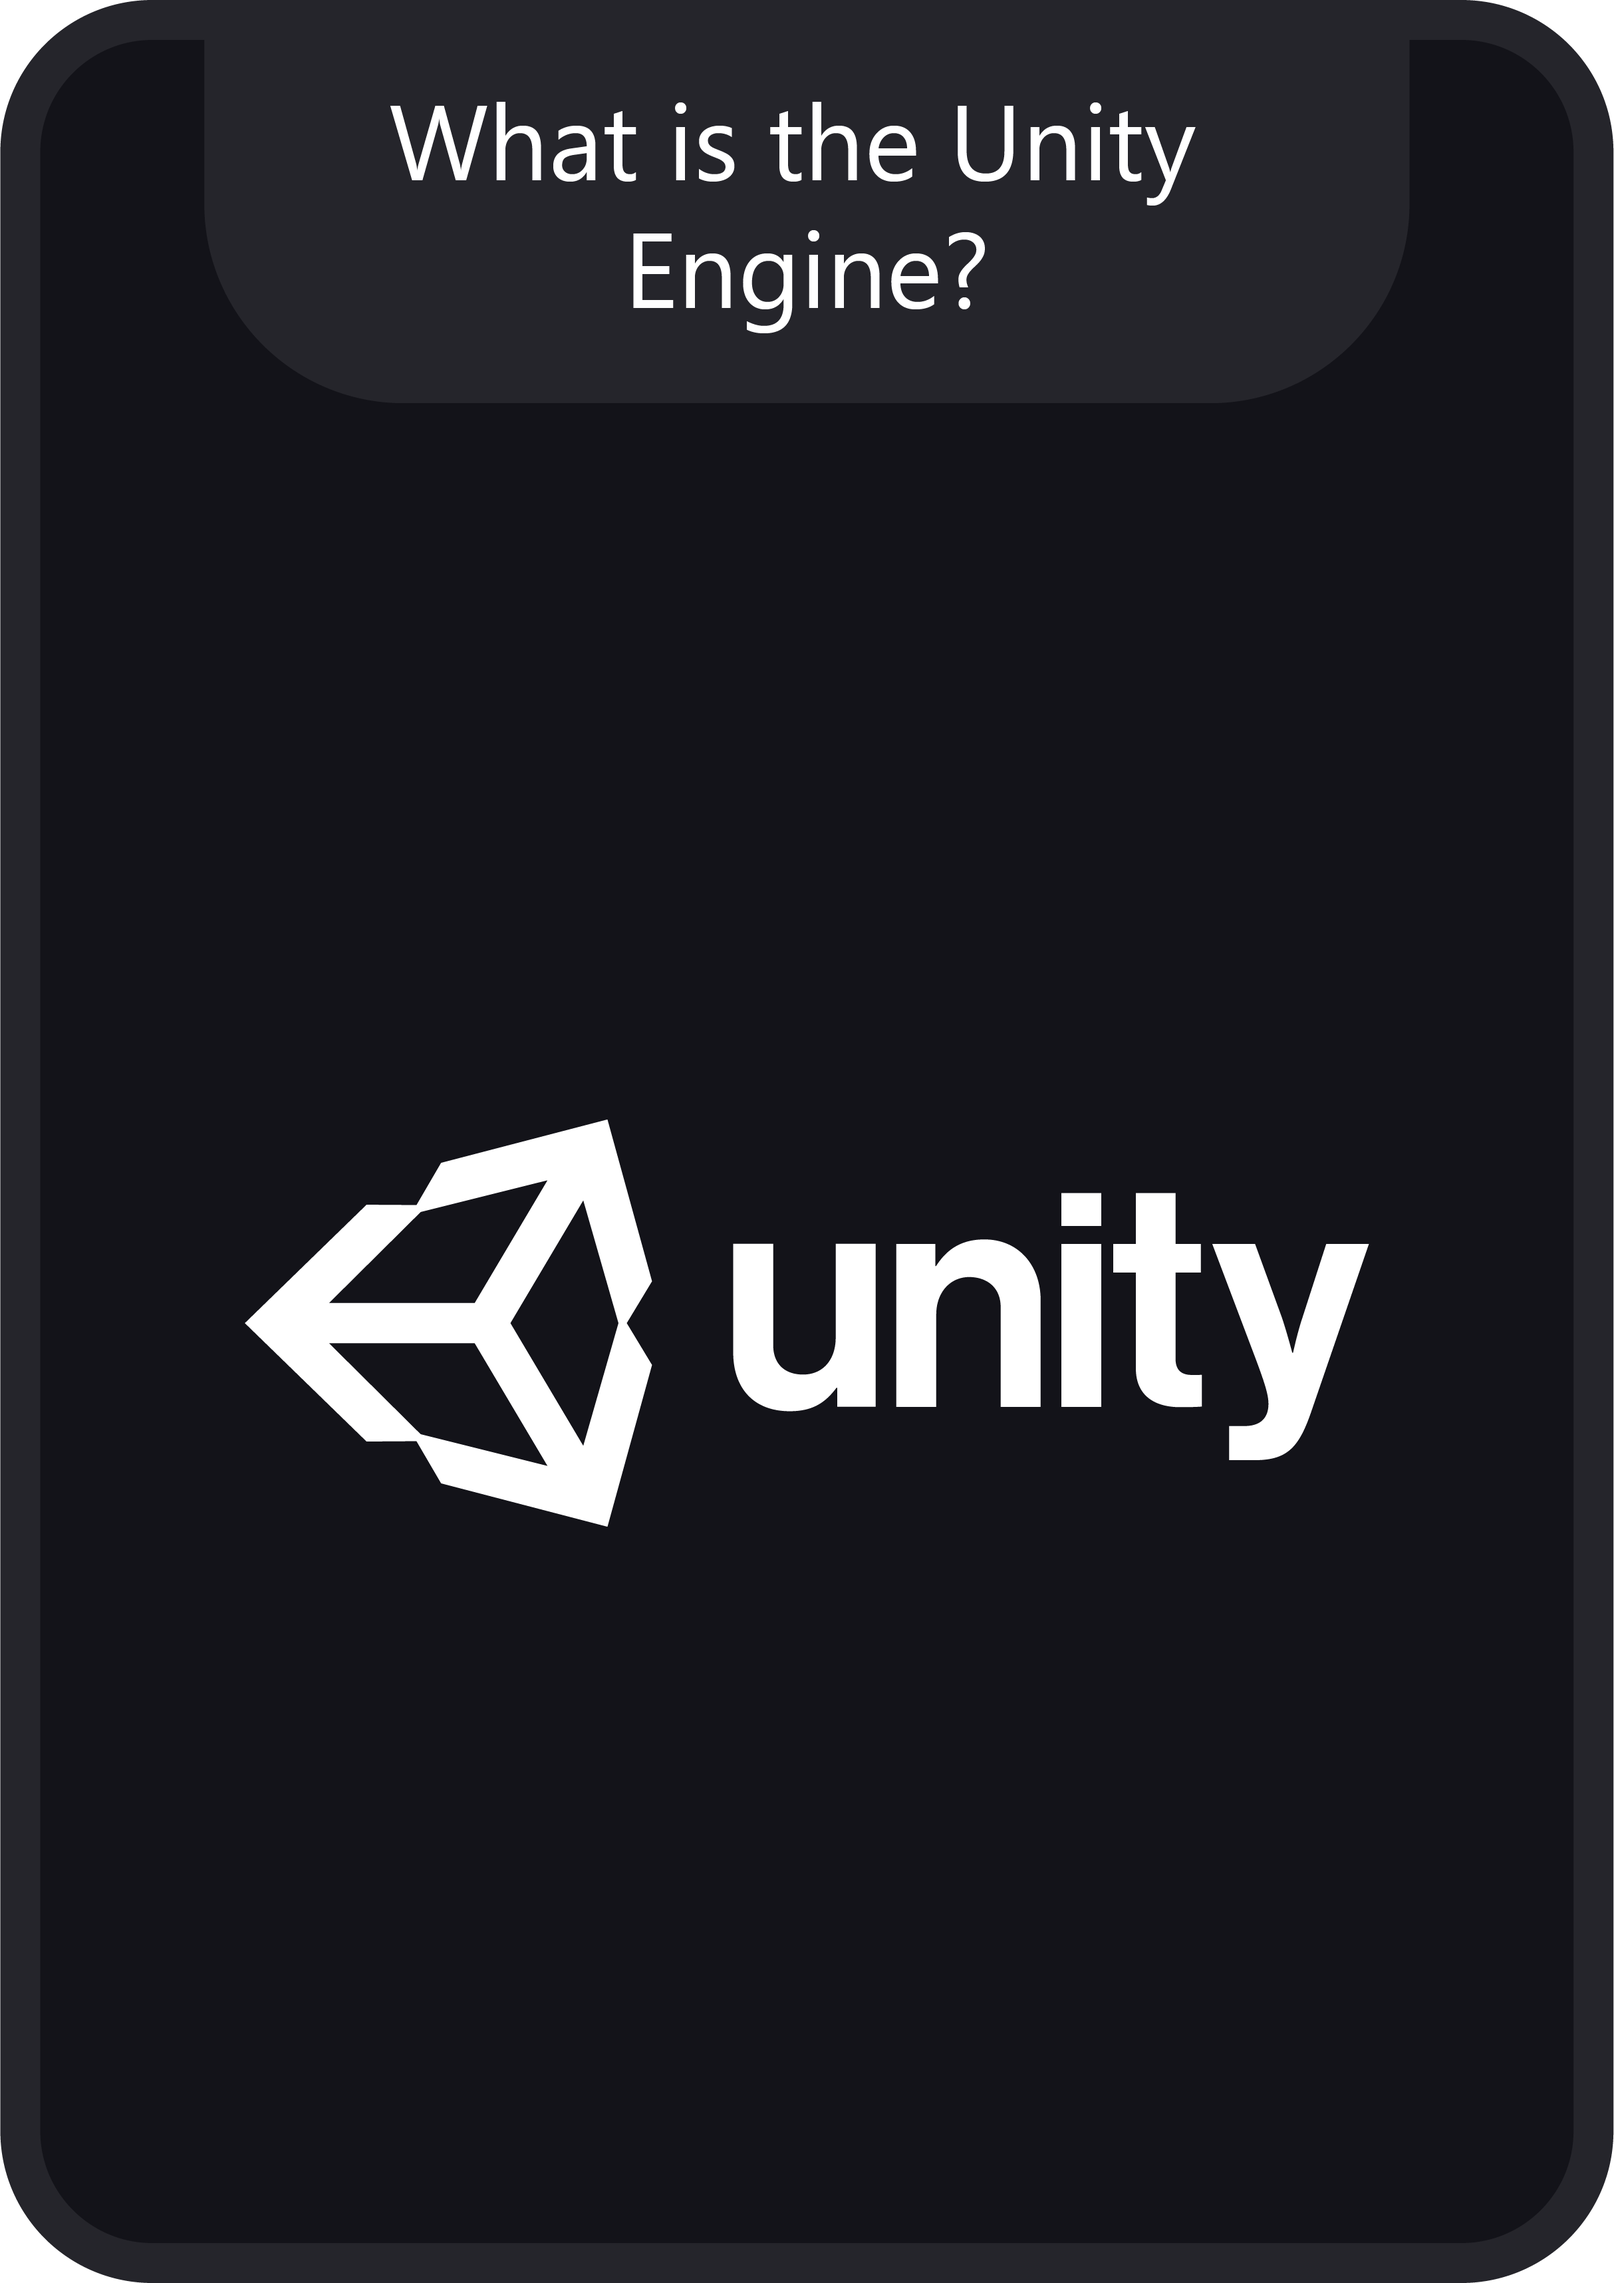
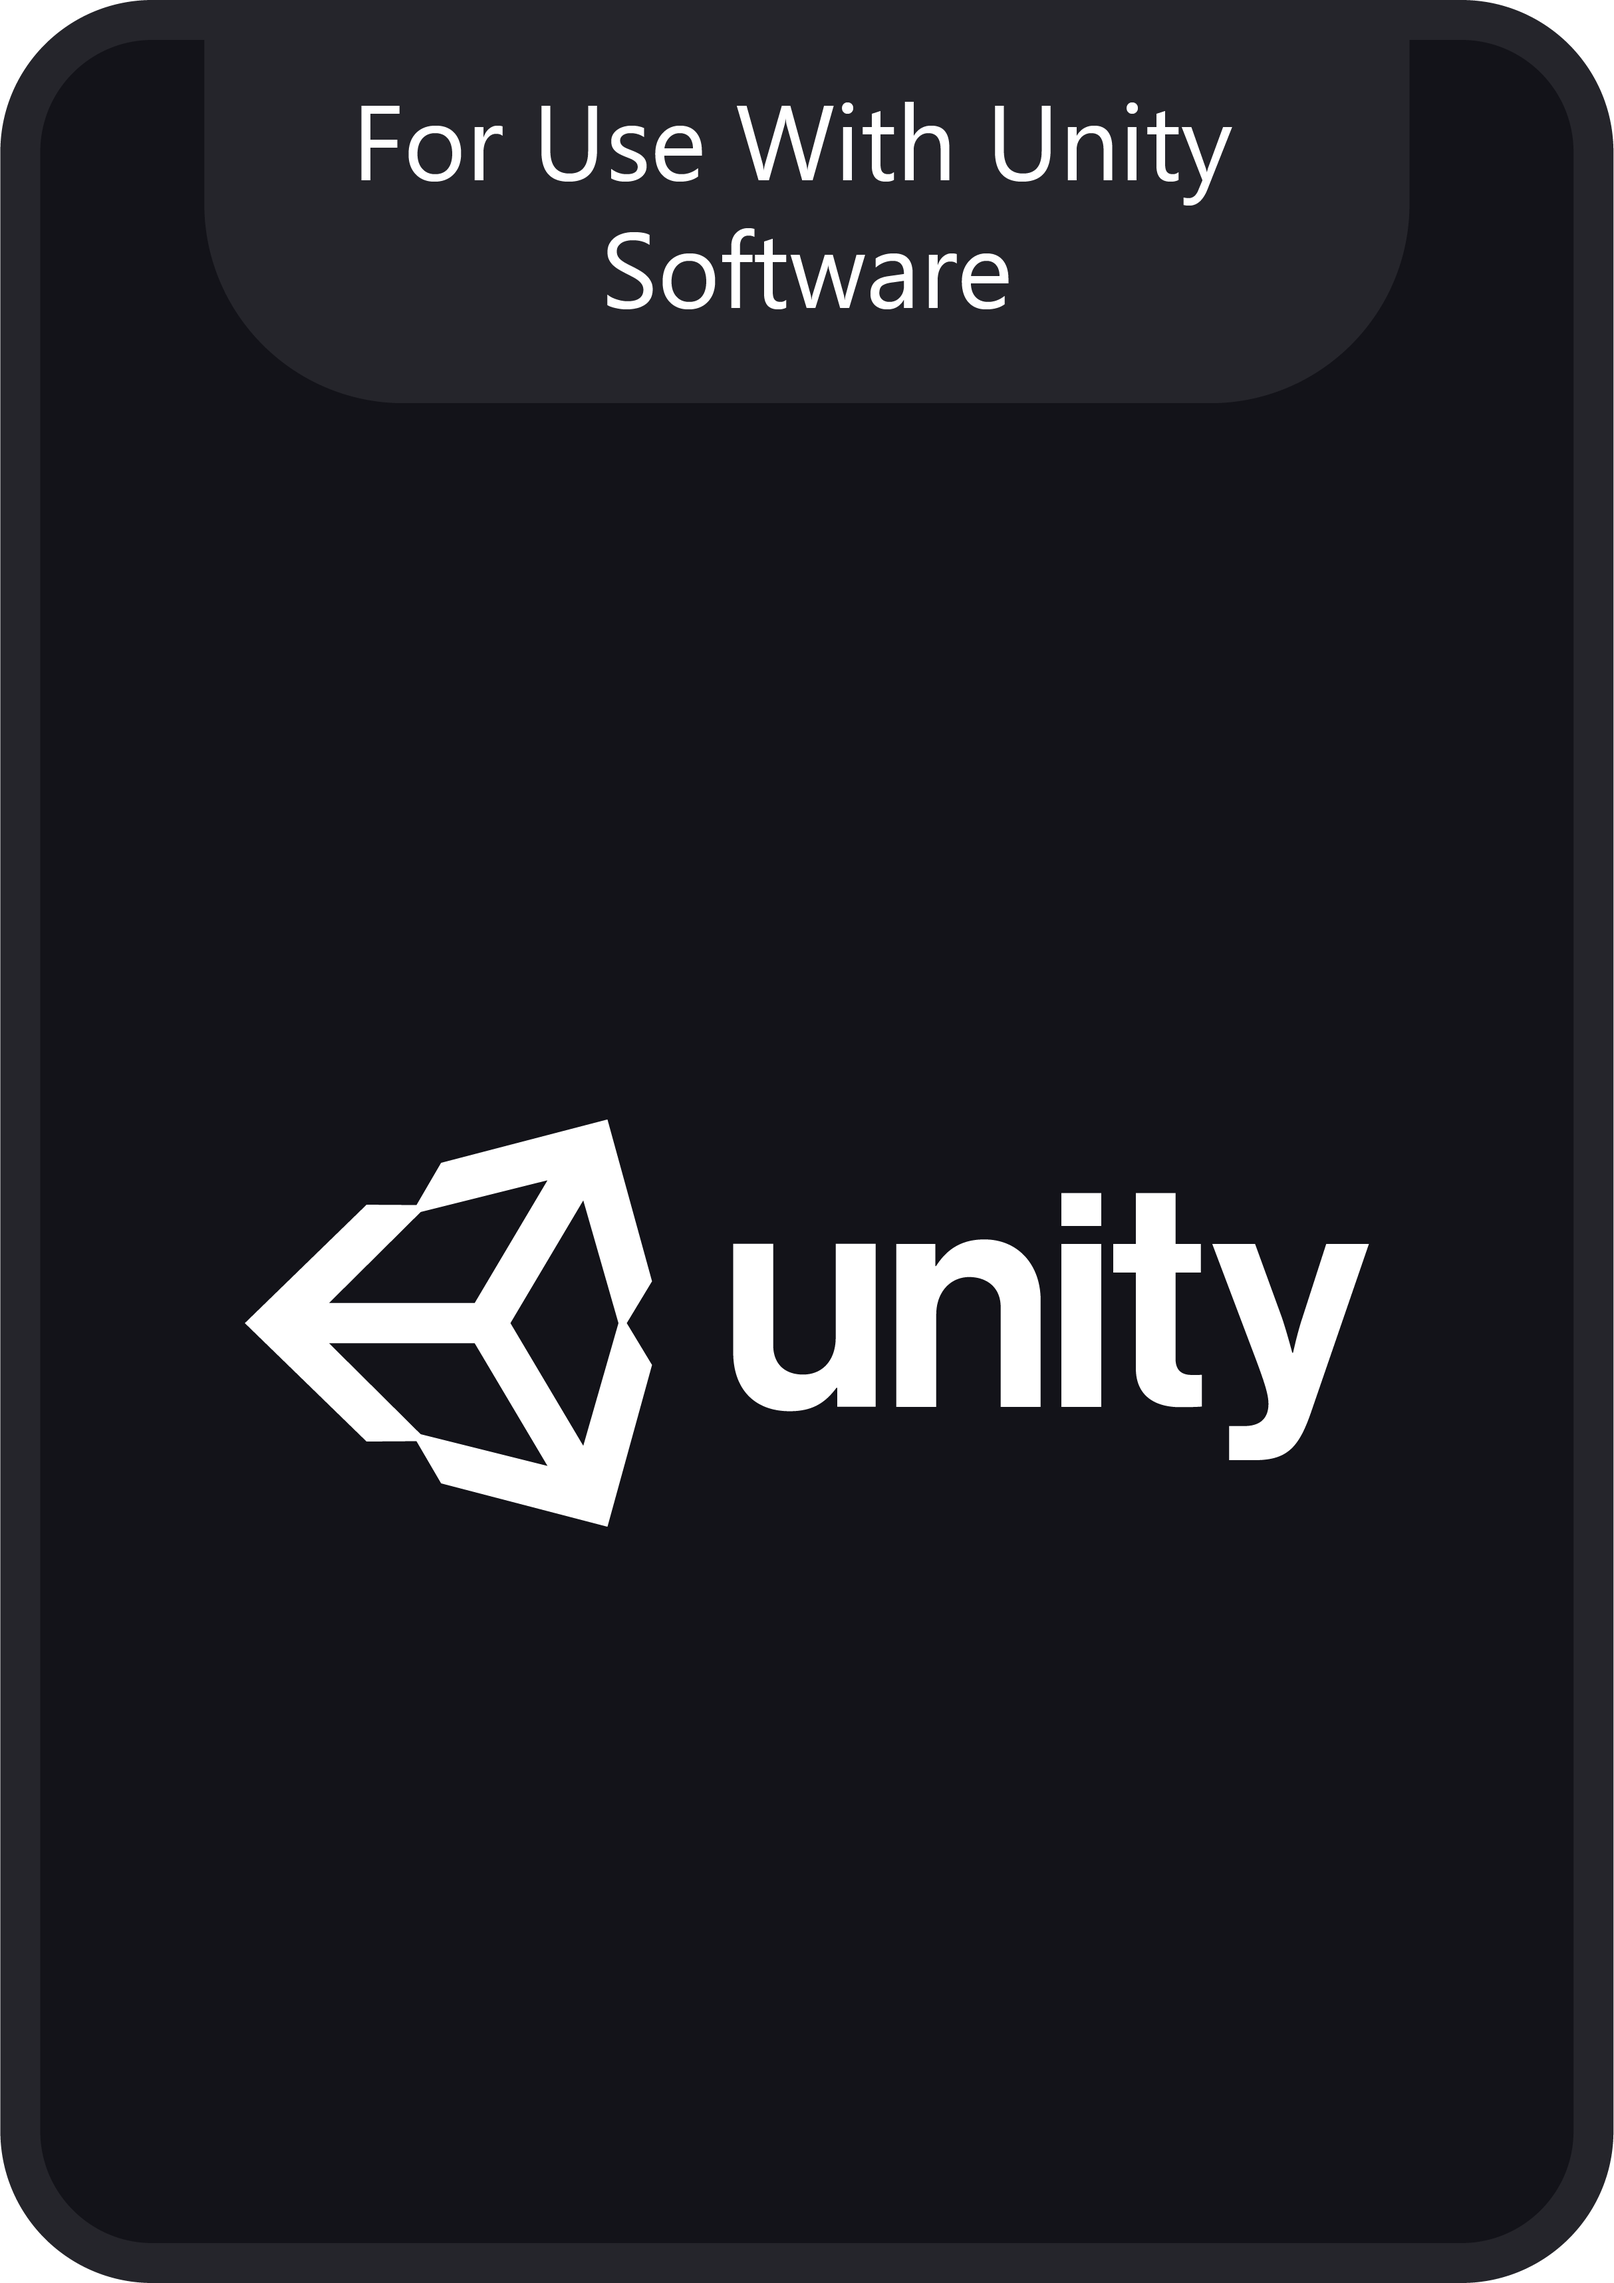
updated Unity References

Changed region(s): [[0.2163, 0.0312, 0.7726, 0.1559]]

diff --git a/pages/documentation.js b/pages/documentation.js
@@ -279,7 +279,7 @@ class Documentation extends Component {
                 {this.state.step5 &&
                   <div>
                     <a href="#testC" className={subSectionLinkStyle}>Running Configuration Files</a>
-                    <a href="#testU" className={subSectionLinkStyle}>Testing in Unity</a>
+                    <a href="#testU" className={subSectionLinkStyle}>Testing within Unity Software</a>
                     <a href="#testT" className={subSectionLinkStyle}>Troubleshooting</a>
                   </div>
                 }<br />
@@ -369,7 +369,7 @@ class Documentation extends Component {
               <div className="text-white text-left max-w-sm md:max-w-lg lg:max-w-2xl mb-16" id="about">
               <h1 className="font-medium text-5xl my-4">Welcome To OpenMaze!</h1>
                 <p id="creatingScenes" className="font-medium text-3xl">About</p>
-                  <p>OpenMaze is a general-purpose 3D experiment building toolbox, developed for the Unity Engine. 
+                  <p>OpenMaze is a general-purpose 3D experiment building toolbox, developed for use with Unity Software. 
                     OpenMaze is easy-to-use and requires no prior coding experience, allowing you to spend less time hacking and more time experimenting! 
                     This manual contains everything you need to know about building experiments in OpenMaze. </p>
                   <br />
@@ -395,7 +395,7 @@ class Documentation extends Component {
               <div className="text-white text-left max-w-sm md:max-w-lg lg:max-w-2xl mb-16" id="softwareS">
               <h1 className="font-medium text-5xl my-4">Software Setup</h1>
               <h1 className="font-medium text-3xl my-4">Download and Install</h1>
-                <p>To get started, you will need three pieces of software: The OpenMaze Source Code, The Unity Development Engine, and a text editor! Follow the steps below to get setup with everything you need:</p>
+                <p>To get started, you will need three pieces of software: The OpenMaze Source Code, Unity Software, and a text editor! Follow the steps below to get setup with everything you need:</p>
                 
                 <p style={{padding: 20}}>
                   <strong>Step 1: Download the OpenMaze Source Code</strong>
@@ -403,17 +403,17 @@ class Documentation extends Component {
                   Then scroll to the bottom of the page and click <strong>Source Code (zip)</strong>. Once downloaded, extract (or unzip) the folder in an easily accessible directory - we recommend your <b>Documents</b> or <b>Desktop</b> folder.</p>
                   <br />
 
-                  <b>Step 2: Download and Install the Unity Hub</b>
-                  <p><a href="https://store.unity.com/download?ref=personal"><u>Click here</u></a> to download the Unity Hub. If you don't have one already, you'll need to create a Unity account and select a Unity plan. 
+                  <b>Step 2: Download and Install Unity Software</b>
+                  <p><a href="https://store.unity.com/download?ref=personal"><u>Click here</u></a> to download the Unity Hub. If you don't have one already, you'll need to create a Unity Software account and select a Unity Software plan. 
                   Don't worry, OpenMaze works with any plan type, including free <b>Personal</b> or <b>Student</b> plans!</p>
                   <br />
 
-                  <b>Step 3: Set up OpenMaze in Unity</b>
+                  <b>Step 3: Set up OpenMaze in Unity Software</b>
                   <p>Open the <b>Unity Hub</b> application, sign in, and ensure that you have a license (it's free too!). Once signed in, click the <strong>Add</strong> button in the top right of the <strong>Projects</strong> page. 
-                  When prompted select the unzipped OpenMaze folder from <strong>Step 1</strong>. When OpenMaze appears in the Hub, click the small yellow triangle beside <strong>Unity Version</strong>. 
-                  This will prompt you to download the correct version of Unity (this takes a while - be patient or take a quick nap!). 
-                  Once installed, navigate back to the <strong>Projects</strong> page. The yellow triangle should be replaced with a Unity Version number.
-                  You can now click the OpenMaze project to open it in Unity. You may be asked if you would like to update Unity - click no.</p>
+                  When prompted select the unzipped OpenMaze folder from <strong>Step 1</strong>. When OpenMaze appears in the Hub, click the small yellow triangle beside <strong>Unity Software Version</strong>. 
+                  This will prompt you to download the correct version of Unity Software (this takes a while - be patient or take a quick nap!). 
+                  Once installed, navigate back to the <strong>Projects</strong> page. The yellow triangle should be replaced with a Unity Software Version number.
+                  You can now click the OpenMaze project to open it in Unity Software. You may be asked if you would like to update Unity Software- click no.</p>
                   <br />
 
                   <b>Step 4: Choosing a Text Editor</b>
@@ -435,7 +435,7 @@ class Documentation extends Component {
 
                 <p class="text-center bg-green-600 rounded-lg border border-white p-2">
                      <a href="https://docs.unity3d.com/Manual/UsingTheEditor.html">
-                     <strong>Click Here!</strong> For more information about Unity's interface.</a></p><br />
+                     <strong>Click Here!</strong> For more information about Unity Software interface.</a></p><br />
                   
               </div>
 
@@ -647,7 +647,7 @@ class Documentation extends Component {
                       <tr>
                         <td className=" px-4 py-2">“OutputTimesPerSecond”:</td>
                         <td className=" px-4 py-2">30</td>
-                        <td className=" px-4 py-2">Used to adjust how often per second the experiment records a new line of data to the output file. Output is intrinsically linked to the Unity update function which is called during each render cycle (see Output Timing below) This number can be used to reduce the output rate below the update cycle rate, but not above.</td>
+                        <td className=" px-4 py-2">Used to adjust how often per second the experiment records a new line of data to the output file. Output is intrinsically linked to the Unity Software <b>Update()</b> function which is called during each render cycle (see Output Timing below) This number can be used to reduce the output rate below the update cycle rate, but not above.</td>
                       </tr>
                       <tr className="bg-dark-light">
                         <td className=" px-4 py-2">“IgnoreUserInputDelay”</td>

diff --git a/pages/index.js b/pages/index.js
@@ -31,9 +31,9 @@ const Index = () => (
             {/* <p className="text-5xl font-bold">
               Start to Finish Experiment Design.
               </p> */}
-            <p className="mt-6 opacity-75 text-lg">
+            <p className="mt-6 text-lg">
               OpenMaze is a general-purpose 3D experiment building toolbox,
-              developed for the Unity Engine. OpenMaze is easy-to-use and
+              developed for use with Unity Software. OpenMaze
               requires no prior coding experience, allowing you to spend less
               hacking and more time experimenting!
             </p>
